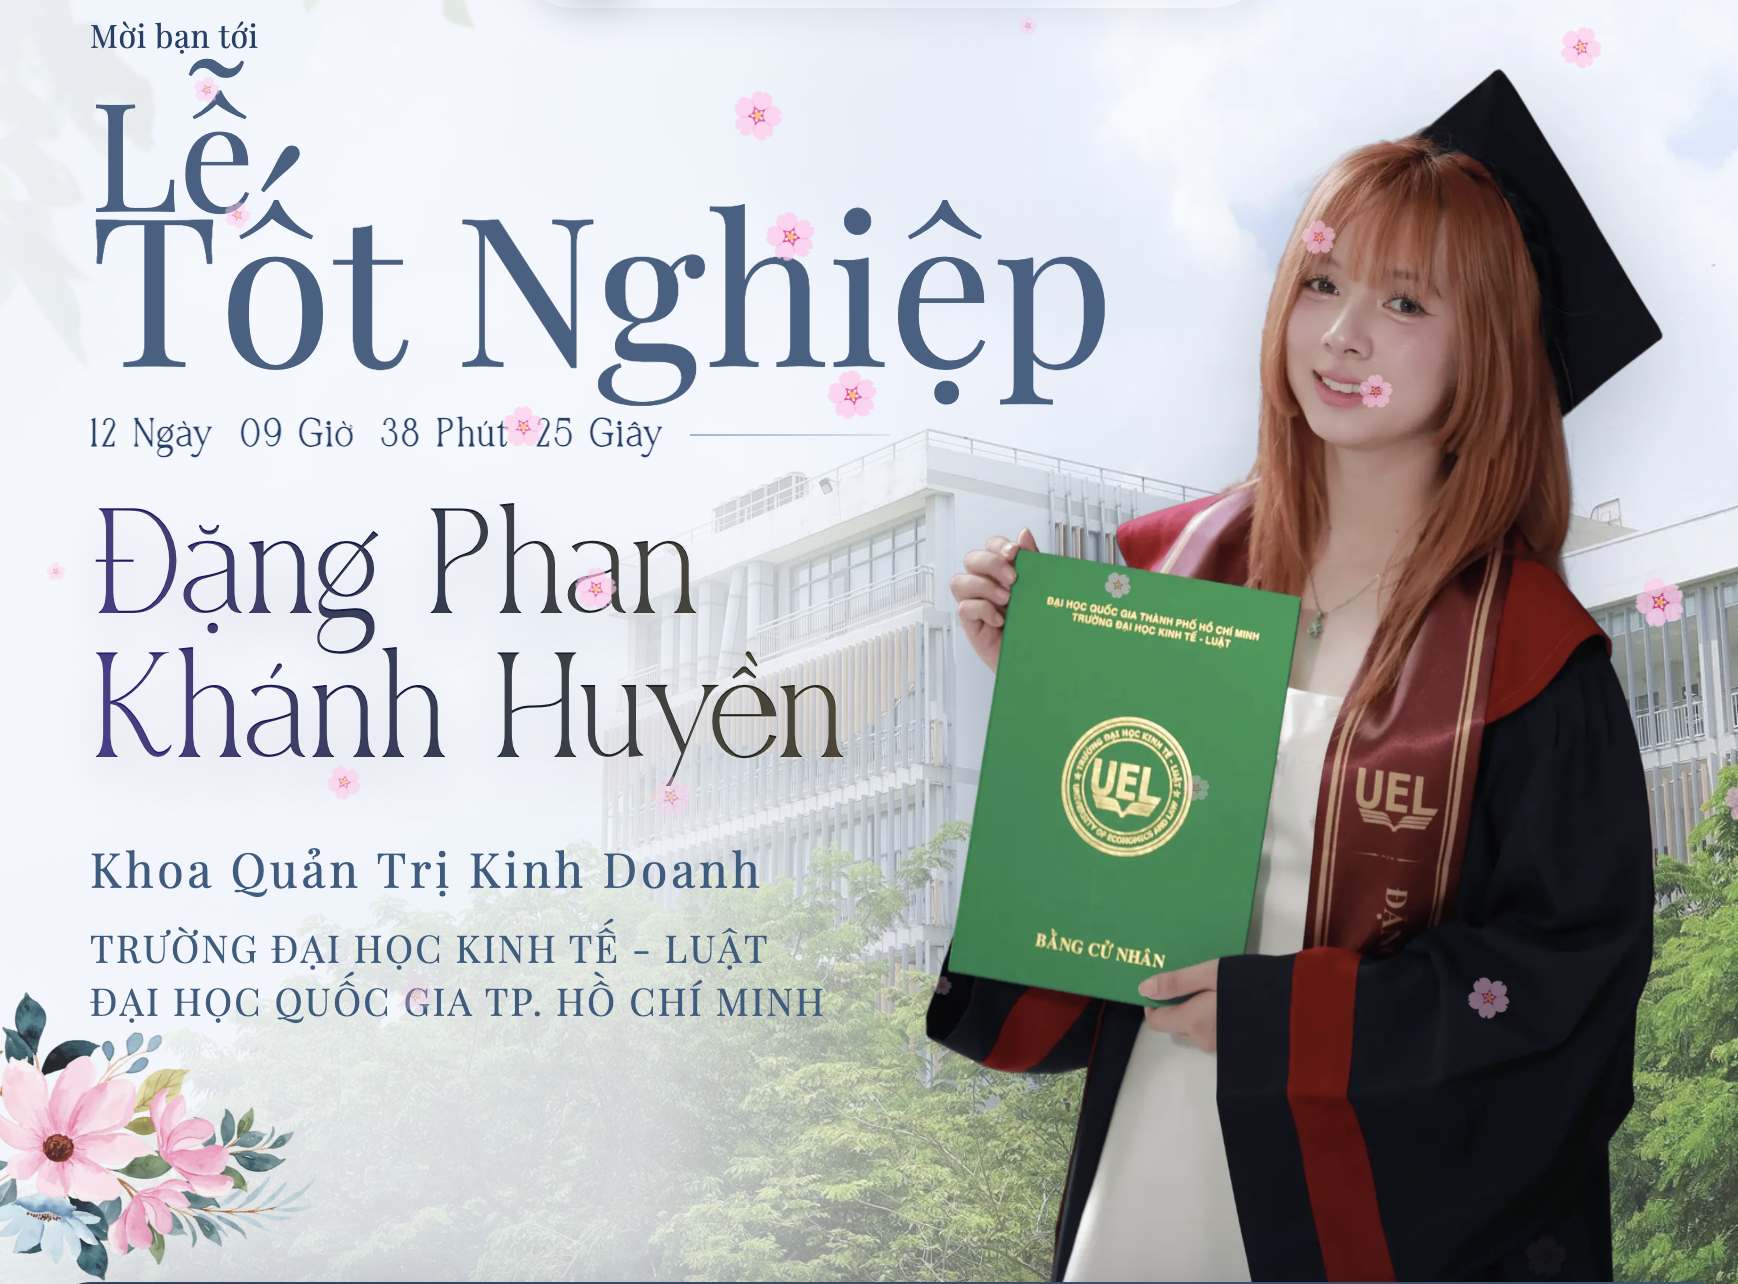
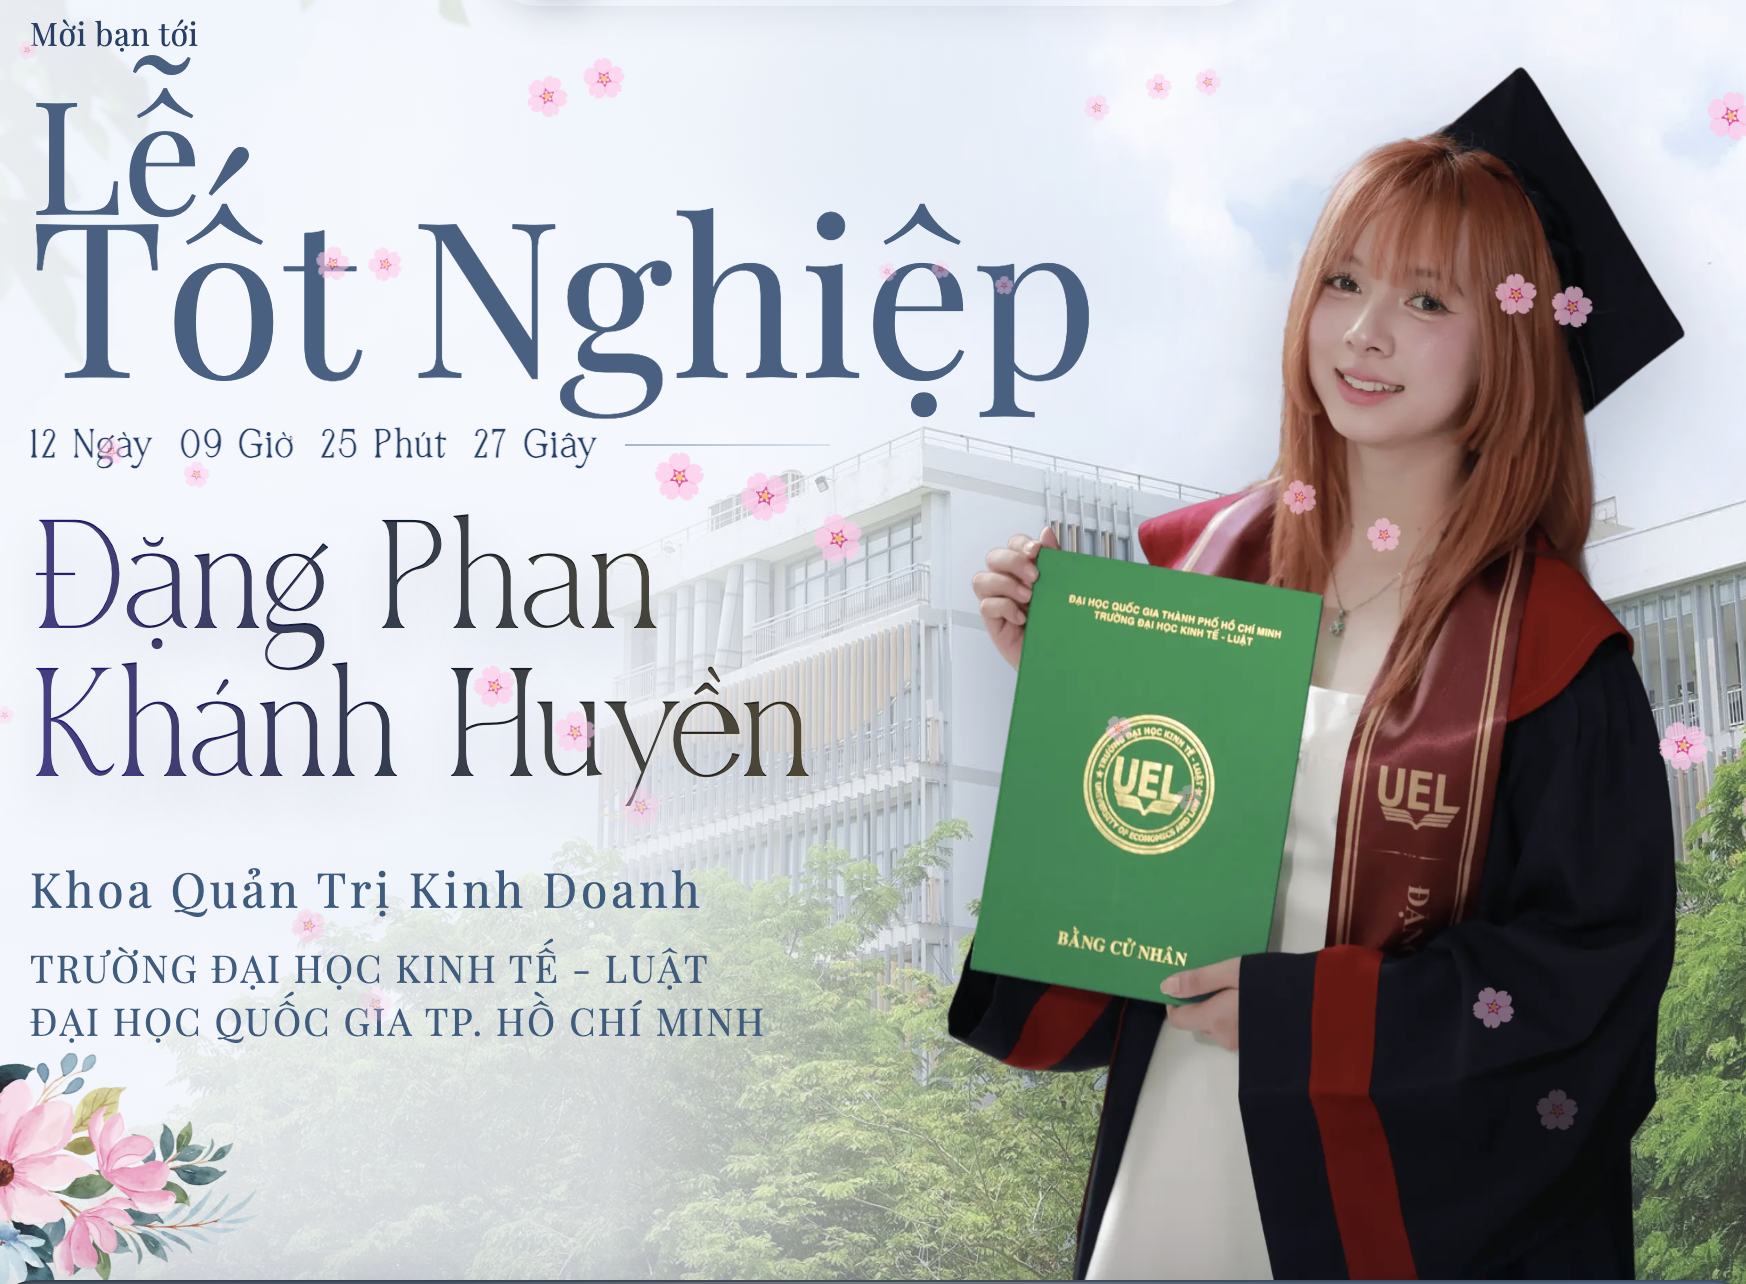
feat: update metadata descriptions for graduation ceremony

diff --git a/src/app/layout.js b/src/app/layout.js
@@ -21,11 +21,12 @@ const highSpirited = localFont({
 });
 
 export const metadata = {
+  metadataBase: "https://khanhhuyen.app",
   title: "Khanh Huyen's Graduation Ceremony",
   description: "Trường UEL - 11/05/2026",
   openGraph: {
     title: "Khanh Huyen's Graduation Ceremony",
-    description: "Lễ Tốt Nghiệp - 11/05/2026",
+    description: "Trường UEL - 11/05/2026",
     images: [
       {
         url: "/thumbnail.jpg",
@@ -37,7 +38,7 @@ export const metadata = {
   twitter: {
     card: "summary_large_image",
     title: "Khanh Huyen's Graduation Ceremony",
-    description: "Lễ Tốt Nghiệp - 11/05/2026",
+    description: "Trường UEL - 11/05/2026",
     images: ["/thumbnail.jpg"],
   },
 };
